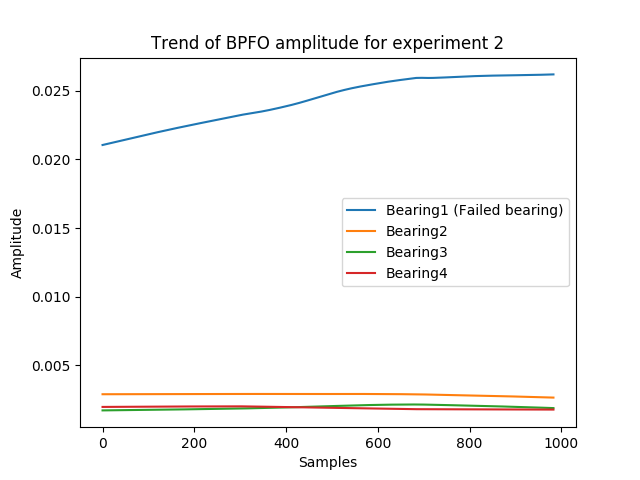
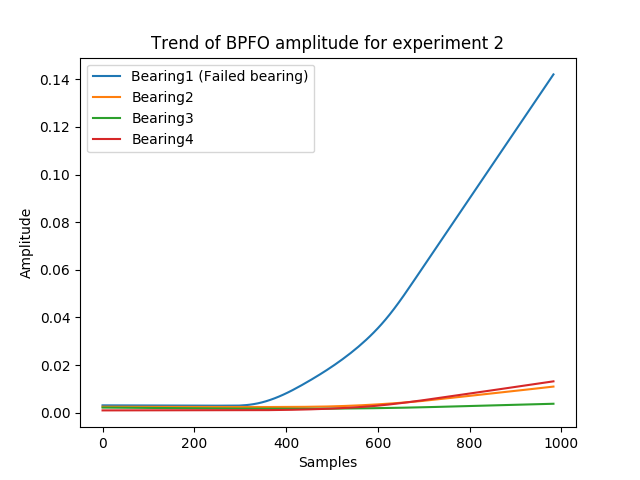
up

diff --git a/UiB-master/Chapters/chapter02.tex b/UiB-master/Chapters/chapter02.tex
@@ -178,7 +178,7 @@ The band pass filter allows signal within a given band of frequency to seep thro
       \begin{scope}[start branch=venstre,
         %We need to redefine the join-style to have the -> turn out right
         every join/.style={->, thick, shorten <=1pt}, ]
-        \node[punktchain, on chain=going left, join=by {->}] (risiko) {Frequency spectrum};
+        \node[punktchain, on chain=going left, join=by {->}] (risiko) {Frequency spectrum and amplitude};
       \end{scope}
       \begin{scope}[start branch=hoejre,]
       %\node (finans) [punktchain, on chain=going right] {Det finansielle system};
@@ -196,67 +196,77 @@ H(t) = \frac{1}{\pi}P\int_{-\infty}^{+\infty}\frac{x(t)}{t-\tau}\mathrm{d}\tau
 E(t) = \sqrt{H(t)^{2}+ x(t)^{2}}
 \end{equation}
 where $P$ is the Cauchy principal value. After the enveloping process, the resulting signal is filtered by removing hight frequency noise and the fast Fourier transform is applied to obtain the frequency spectrum.
+\justify
+Once we have found the frequency spectrum and the corresponding amplitude, we search any of the forcing frequency and record their amplitude in time. Base on a predefine limit, an alarm is raised when the amplitude is above the limit.
 \clearpage
 \subsection{Simulation results from the experiment}
-In this section we present the results resulting from applying Fourier analysis to detecting two types of faults in bearing, namely: ball pass frequency outer race defect (BPFO) and ball pass frequency inner race defect (BPFI). Recall that BPFO occurs when a defect is initiated in the outer ring of the bearing and BPFI is the defect that is initiated in the inner ring of the bearing. The reader can refer to Figure \ref{fig:bearing} for a detailed geometry description of a bearing. The experimental setup for the bearings are given in Figure \ref{fig:exp}. The bearing used in these experiments are manufactured by the company Rexnord, and are of type Rexnord ZA 2115, with forcing frequencies  given by 
+In this section we present the results from applying Fourier analysis to detecting one type of fault in bearing, namely: ball pass frequency outer race defect (BPFO). The methodology can easily be extended to other forcing frequencies as well, but we limit ourselves to BPFO to avoid any redundancy. Recall that BPFO occurs when a defect is initiated in the outer ring of the bearing. The reader can refer to Figure \ref{fig:bearing} for a detailed geometry description of a bearing. The experimental setup for the bearings are given in Figure \ref{fig:exp}. The bearing type used in this experiment are manufactured by the company Rexnord, and are of type Rexnord ZA 2115, with BPFO forcing frequency  given by 
 \begin{equation}
-BPFO = 236.4 Hz, \quad BPFI = 296.8 Hz \nonumber
+BPFO = 236.4 Hz, %\quad BPFI = 296.8 Hz \nonumber
 \end{equation}
-We apply the process described in Figure \ref{fig:fft-process} for experiment 1, 2 and 3
-\subsubsection{Result for experiment 2}
-In experiment number 2, successive vibration samples where measured from bearing number 1,2,3 and 4, resulting in 984 samples for each bearing.  At the end of the experiment, BPFO defect occurs in bearing number 1. Figure \ref{fig:bearing1-experiment2} shows the vibration signal from sample number 900, measured from bearing number 1. Figure \ref{fig:bearing1-experiment2-fft} shows the corresponding frequency spectrum obtained by applying the process described in Figure \ref{fig:fft-process}.
+We apply the process described in Figure \ref{fig:fft-process} to experiment number 2.
+%\subsubsection{Result for experiment 2}
+In the latter, successive vibration samples where measured from four bearings: Bearing number 1,2,3 and 4, resulting in 984 samples for each bearing.  At the end of the experiment, BPFO defect occurs in bearing number 1. Figure \ref{fig:bearing1-experiment2} shows the vibration signal from sample obtained at [date], from bearing number 1. Figure \ref{fig:bearing1-experiment2-fft} shows the corresponding frequency spectrum obtained by applying the process described in Figure \ref{fig:fft-process}.
 \justify
 In the frequency spectrum, we can clearly identify the BPFO frequency (in orange), which has the largest amplitude in the spectrum. We can also observe three harmonics of the BPFO.
 BPFO harmonics are multiple frequency of the BPFO frequency. Here we observe $2\times$BPFO, $3\times$BPFO and $4\times$BPFO harmonics. The BPFO frequency are characterized by the presence of harmonics [ref:Vib analy training manuel cat1]. 
-\justify
-In contrast to Figure \ref{fig:bearing1-experiment2-fft}, Figure \ref{fig:bearing2-experiment2-fft}, \ref{fig:bearing3-experiment2-fft} and \ref{fig:bearing4-experiment2-fft}, show respectively the frequency spectrum of bearing number 2,3 and 4. These spectrum can been seen as noise compare to the spectrum of bearing number 1, which suffers from BPFO defect. It is worth noting that the BPFO defect usually appears at the bottom of the bearing where the load experienced by the bearing is the largest.
 \begin{figure}[H] %  figure placement: here, top, bottom, or page
    \centering
-   \includegraphics[width=6in]{../fig/experiment2_bearing1.png} 
-   \caption{Vibration signal corresponding to sample 900, from bearing number 1 in  experiment 2}
+   \includegraphics[width=4.5in]{../fig/experiment2_bearing1.png} 
+   \caption{Vibration signal corresponding to sample 900, from bearing number 1 in  experiment number 2}
    \label{fig:bearing1-experiment2}
 \end{figure}
 %%%%%%%%%%%%%
 \begin{figure}[H] 
    \centering
-   \includegraphics[width=6in]{../fig/experiment2_bearing1_fft.png} 
-   \caption{Frequency spectrum obtained from vibration signal corresponding to sample 900, of bearing number 1,  in  experiment 2}
+   \includegraphics[width=4.4in]{../fig/experiment2_bearing1_fft.png} 
+   \caption{Frequency spectrum obtained from vibration signal corresponding to sample [date], of bearing number 1,  in  experiment number 2}
    \label{fig:bearing1-experiment2-fft}
 \end{figure}
+\justify
+In contrast to Figure \ref{fig:bearing1-experiment2-fft}, Figure \ref{fig:bearing2-experiment2-fft}, \ref{fig:bearing3-experiment2-fft} and \ref{fig:bearing4-experiment2-fft}, show  the frequency spectrum of bearing number 2,3 and 4, respectively. No apparent large peak can be observe in these spectrum, since the spectrum are from bearings with no defect. It is worth noting that the BPFO defect usually appears at the bottom in the outer ring where the load experienced by the bearing is the largest.
 
 \begin{figure}[H] 
    \centering
-   \includegraphics[width=6in]{../fig/experiment2_bearing2_fft.png} 
+   \includegraphics[width=4.4in]{../fig/experiment2_bearing2_fft.png} 
    \caption{Frequency spectrum obtained from vibration signal corresponding to sample 900, of bearing number 2, in experiment 2.}
    \label{fig:bearing2-experiment2-fft}
 \end{figure}
 
 \begin{figure}[H] 
    \centering
-   \includegraphics[width=6in]{../fig/experiment2_bearing3_fft.png} 
+   \includegraphics[width=4.4in]{../fig/experiment2_bearing3_fft.png} 
    \caption{Frequency spectrum obtained from vibration signal corresponding to sample 900, of bearing number 3, in experiment 2.}
    \label{fig:bearing3-experiment2-fft}
 \end{figure}
 
 \begin{figure}[H] 
    \centering
-   \includegraphics[width=6in]{../fig/experiment2_bearing4_fft.png} 
+   \includegraphics[width=4.4in]{../fig/experiment2_bearing4_fft.png} 
    \caption{Frequency spectrum obtained from vibration signal corresponding to sample 900, of bearing number 4, in experiment 2.}
    \label{fig:bearing4-experiment2-fft}
 \end{figure}
 \justify
-Now let compare all bearing. To do so we compute the BPFO frequency, and related amplitude for each sample. Figure \ref{fig:experiment2_bearing_fft_trend} shows 
-the trend of the BPFO amplitude as the experiment evolve. We can observe that at the beginning of the experiment, bearing number 1 had a significant large failure amplitude.
-As the experiment evolve, the amplitude increases almost steadily, until failure occurs. In contrast to bearing 1, bearing 2, 3 and 4 BPFO amplitude are relatively steady during the experiment. 
+Figure \ref{fig:experiment2_bearing_fft_amp}  and \ref{fig:experiment2_bearing_fft_trend}  and show the BPFO amplitude and
+ trend as the experiment evolves. We can observe that at the beginning of the experiment, all bearing have a very low BPFO amplitude. However, at [date], the BPFO amplitude of bearing number 1 starts increasing. As the experiment evolves, the amplitude increases almost steadily, until failure occurs. In contrast to bearing 1, bearing 2, 3 and 4, the BPFO amplitude are relatively steady during the experiment, and only a slight increase is noticeable at the end of the experiment.
 \begin{figure}[H] 
    \centering
-   \includegraphics[width=6in]{../fig/experiment2_bearing_fft_trend.png} 
+    \includegraphics[width=4.4in]{../fig/experiment2_bearing_fft_amp.png}
+  % \includegraphics[width=4.4in]{../fig/experiment2_bearing_fft_trend.png} 
+   \caption{Trend for BPFO for each samples}
+   \label{fig:experiment2_bearing_fft_amp}
+\end{figure}
+
+\begin{figure}[H] 
+   \centering
+   % \includegraphics[width=4.4in]{../fig/experiment2_bearing_fft_amp.png}
+   \includegraphics[width=4.4in]{../fig/experiment2_bearing_fft_trend.png} 
    \caption{Trend for BPFO for each samples}
    \label{fig:experiment2_bearing_fft_trend}
 \end{figure}
 
 \justify
-\subsubsection{Experiment 1 and 3}
+
 
 
 
